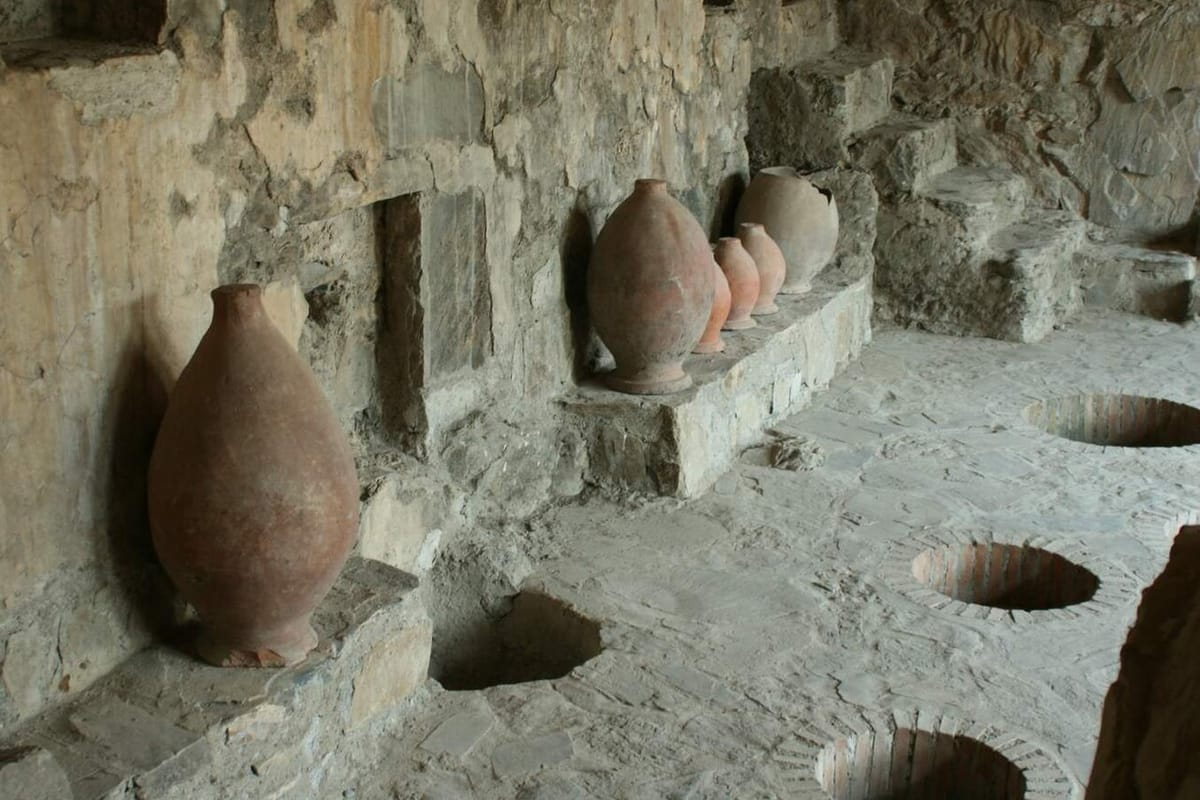
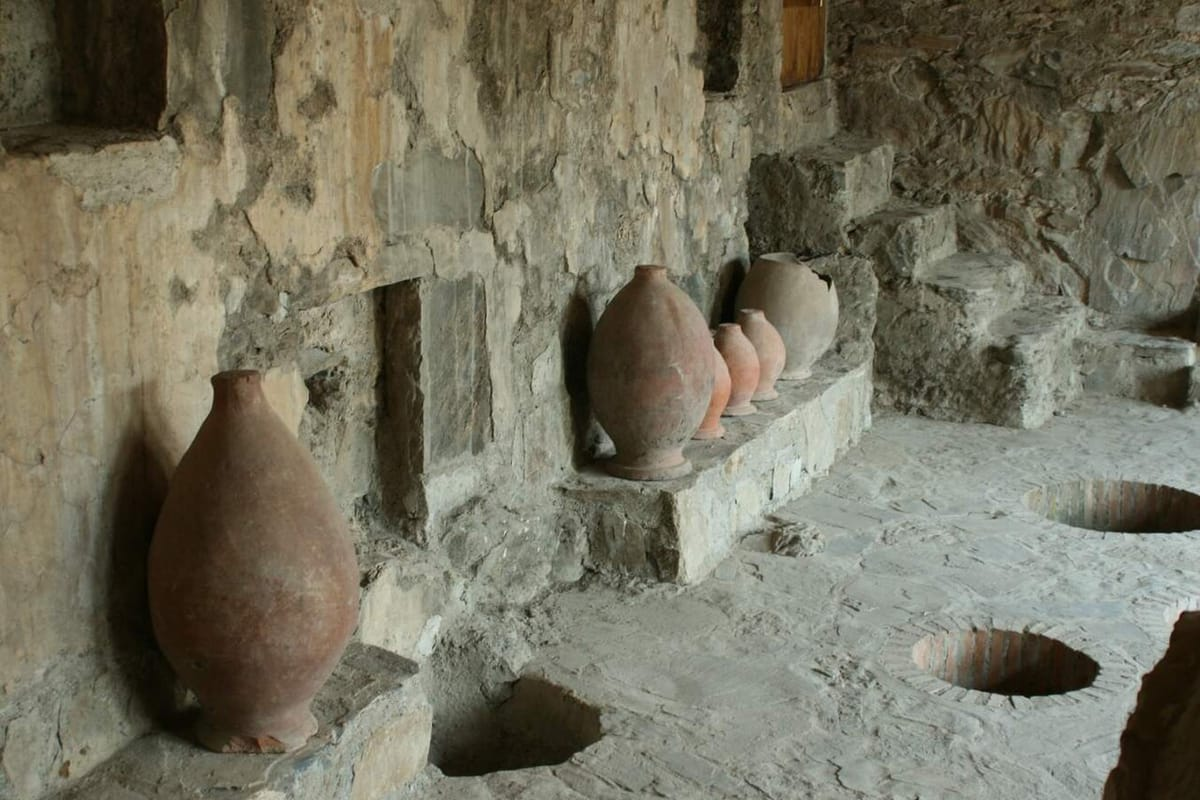
The sweep: thirty-one screenshots, seven flaws, one design system
Every page, desktop and mobile, rendered and reviewed. Most surfaces held
up; seven did not, and each is now fixed: the closing call-to-action was a
navy button painted onto a navy band — an invisible button is a missing
button — and is now the gold pill the header taught users to look for. The
Why-RouteGeorgia band reserved a column for a contact card that does not
render until SUPPORT_PHONE exists, leaving a hole; the grid now collapses.
The sign-in page was still wearing the previous brand — old mark, two-word
name; it now carries the R monogram lockup. The 404 grew a spine (logo,
eyebrow, centred layout). The booking page said '0 h 40 min' where the
shared formatter says '40 min'. The wine category card duplicated the tour
cover's exact crop on the same homepage; it now shows a different band of
the same cellar. And the map's raised labels could clip at the container
edge, which headroom fixes.

DESIGN-SYSTEM.md is the second deliverable: the navy-and-gold system as
law — the gold law and the navy law, the type scale and its tightened
bolds, the three permitted shadows, the radius binary, the photography and
honesty rules, per-component contracts, and a ten-point checklist for any
new page. When the document and the code disagree, one of them gets fixed
the same day. 69 tests, all fixes re-verified in the renderer.

diff --git a/src/app/login/page.tsx b/src/app/login/page.tsx
@@ -3,6 +3,7 @@ import { redirect } from "next/navigation";
 import { getSessionUser } from "@/lib/auth/session";
 import { Alert, Button, Card, Field, Input } from "@/components/ui";
 import { ContourField } from "@/components/contour-field";
+import { Logo } from "@/components/logo";
 
 export const dynamic = "force-dynamic";
 export const metadata = { title: "Sign in", robots: { index: false } };
@@ -18,15 +19,8 @@ export default async function LoginPage({
     <div className="relative flex min-h-dvh flex-col justify-center overflow-hidden bg-pine-800 px-4 py-12 text-pine-100">
       <ContourField className="text-pine-300" opacity={0.13} seed={5} />
       <div className="relative mx-auto w-full max-w-md">
-        <div className="mb-8 flex items-center gap-3">
-          <span aria-hidden className="grid size-10 place-items-center rounded-full bg-brand-600 text-white">
-            <svg viewBox="0 0 24 24" className="size-5" fill="none" stroke="currentColor" aria-hidden>
-              <ellipse cx="12" cy="14" rx="9" ry="5.5" strokeWidth="1.3" opacity=".45" />
-              <ellipse cx="12" cy="14" rx="5.5" ry="3.2" strokeWidth="1.3" opacity=".7" />
-              <path d="M4 18 C9 10, 15 16, 20 7" strokeWidth="2" strokeLinecap="round" />
-            </svg>
-          </span>
-          <span className="font-display text-xl text-white">Route Georgia</span>
+        <div className="mb-8">
+          <Logo dark />
         </div>
 
       <Card className="p-7">

diff --git a/src/app/[locale]/page.tsx b/src/app/[locale]/page.tsx
@@ -385,7 +385,7 @@ export default async function Home({
       )}
 
       {/* -------------------------------------------- why + contact ------- */}
-      <section className="grid gap-4 lg:grid-cols-[1fr_20rem]">
+      <section className={config.contact.phone ? "grid gap-4 lg:grid-cols-[1fr_20rem]" : "grid gap-4"}>
         <div className="rounded-2xl bg-pine-50 p-6 sm:p-10">
           <h2 className="font-display text-2xl text-ink-900 sm:text-3xl">{t("home.whyRG")}</h2>
           <dl className="mt-6 grid grid-cols-2 gap-x-8 gap-y-6 sm:grid-cols-4">
@@ -426,7 +426,7 @@ export default async function Home({
         <p className="mx-auto mt-4 max-w-xl leading-relaxed text-pine-100">{t("home.closingBody")}</p>
         <a
           href="#book"
-          className="mt-8 inline-flex min-h-12 items-center rounded-lg bg-brand-600 px-8 py-3 text-white shadow-[0_0_2px_0_rgba(0,0,0,.16)] transition-colors hover:bg-brand-700"
+          className="mt-8 inline-flex min-h-12 items-center rounded-xl bg-gold-400 px-8 py-3 font-bold tracking-[-0.01em] text-pine-900 shadow-[0_0_2px_0_rgba(0,0,0,.16)] transition-colors hover:bg-gold-300"
         >
           {t("home.closingCta")}
         </a>

diff --git a/src/app/[locale]/booking/[code]/page.tsx b/src/app/[locale]/booking/[code]/page.tsx
@@ -1,4 +1,5 @@
 import Link from "next/link";
+import { formatDuration } from "@/lib/format";
 import { notFound } from "next/navigation";
 import { sql } from "@db/client";
 import { isLocale, getTranslator, type Locale, type MessageKey } from "@/lib/i18n";
@@ -133,7 +134,7 @@ export default async function BookingPage({ params, searchParams }: Props) {
               <div><dt className="text-ink-500">{t("booking.departure")}</dt>
                 <dd className="font-medium">{startsAt.toLocaleString(locale, { dateStyle: "full", timeStyle: "short" })}</dd></div>
               <div><dt className="text-ink-500">{t("booking.drivingTime")}</dt>
-                <dd>{Math.floor(booking.drive_minutes / 60)} h {booking.drive_minutes % 60} min {t("booking.excludesStops")}</dd></div>
+                <dd>{formatDuration(booking.drive_minutes)} {t("booking.excludesStops")}</dd></div>
               <div><dt className="text-ink-500">{t("booking.pickup")}</dt><dd>{booking.pickup_address}</dd></div>
               <div><dt className="text-ink-500">{t("booking.dropoff")}</dt><dd>{booking.dropoff_address}</dd></div>
               {booking.flight_number && (

diff --git a/src/app/not-found.tsx b/src/app/not-found.tsx
@@ -1,13 +1,19 @@
 import Link from "next/link";
+import { Logo } from "@/components/logo";
 
 export default function NotFound() {
   return (
-    <div className="mx-auto max-w-lg px-4 py-20 text-center">
-      <h1 className="text-xl font-semibold text-ink-900">Page not found</h1>
-      <p className="mt-2 text-sm text-ink-600">
+    <div className="flex min-h-dvh flex-col items-center justify-center px-4 py-20 text-center">
+      <Logo />
+      <p className="eyebrow mt-10">404</p>
+      <h1 className="font-display mt-2 text-3xl text-ink-900">Page not found</h1>
+      <p className="mt-3 max-w-sm text-sm leading-relaxed text-ink-500">
         That page does not exist, or the driver profile is not published.
       </p>
-      <Link href="/" className="mt-6 inline-block rounded-lg bg-brand-600 px-4 py-2 text-sm text-white hover:bg-brand-700">
+      <Link
+        href="/"
+        className="mt-8 inline-flex min-h-11 items-center rounded-xl bg-brand-600 px-6 py-2.5 text-sm text-white shadow-[0_0_2px_0_rgba(0,0,0,.16)] transition-colors hover:bg-brand-700"
+      >
         Go home
       </Link>
     </div>

diff --git a/src/components/georgia-map.tsx b/src/components/georgia-map.tsx
@@ -116,7 +116,7 @@ export function GeorgiaMap({ locale, places, initialCat = "all" }: { locale: str
         ))}
       </div>
 
-      <div ref={boxRef} className="relative p-4 sm:p-6">
+      <div ref={boxRef} className="relative p-4 pt-8 sm:p-6 sm:pt-10">
         <svg viewBox={`0 0 ${W} ${H}`} className="w-full" role="img" aria-label="Map of Georgia">
           <path
             d={OUTLINE.map(([lon, lat], i) => `${i === 0 ? "M" : "L"}${px(lon).toFixed(1)},${py(lat).toFixed(1)}`).join(" ") + " Z"}

diff --git a/DESIGN-SYSTEM.md b/DESIGN-SYSTEM.md
@@ -1,0 +1,185 @@
+# RouteGeorgia Design System
+
+The single source of truth for how RouteGeorgia looks, speaks and behaves.
+The tokens live in `src/app/globals.css`; this document explains how to use
+them. When this document and the code disagree, fix one of them the same day.
+
+---
+
+## 1. Brand foundations
+
+**Idea.** A Georgian travel company with the authority of navy and the warmth
+of gold. The photography carries the emotion; the interface carries the
+trust. Nothing decorative competes with a photo of Ushguli.
+
+**Logo.** The R monogram: a heavy letterform R whose left stem flows into a
+road sweeping down-left, with a gold dashed centre line. Implemented in code
+in `src/components/logo.tsx` (`RMark`, `Logo`). The wordmark is two-tone:
+ROUTE in navy (white on dark), GEORGIA letterspaced in gold.
+- On light surfaces: navy mark + navy/gold wordmark (`<Logo />`).
+- On dark surfaces: white mark + white/gold wordmark (`<Logo dark />`).
+- App icon / favicon: white mark on a navy rounded tile (`src/app/icon.png`).
+- Never recolour the gold dashes; never set the wordmark in another face.
+- The designer's final vector replaces `MarkPaths` in one file when it ships.
+
+---
+
+## 2. Colour
+
+Four scales, defined as Tailwind v4 `@theme` tokens. Use tokens, never raw
+hex, in components.
+
+| Scale | Anchor | Role |
+|---|---|---|
+| `brand-*` | `brand-600 #0b1d33` (Deep Navy) | Primary actions, active states, emphasis text |
+| `pine-*` | `pine-800 #0b1d33`, `pine-900 #071527` | Dark surfaces: header, footer, hero overlay, dark bands |
+| `gold-*` | `gold-400/500 #d4af37` | The accent: icons, eyebrows, hero's second line, gold CTAs on dark |
+| `ink-*` | `ink-900 #1e242c` text · `ink-500 #576579` muted · `ink-200/300` hairlines | Neutrals |
+
+Semantic: `--color-danger #b3261e` with `--color-danger-bg`; success/warning/
+info badge tints via `Badge` tones only.
+
+**The gold law.** Gold is pigment, not paint:
+- ON DARK: gold works at `gold-400` — icons, the Book-a-ride header button,
+  the hero's second headline line, active carousel dot.
+- ON LIGHT: gold text must use `gold-600 #a8871f` or darker (contrast);
+  `gold-400` on white is reserved for icon strokes paired with a label.
+- Never use gold for body text, borders of inputs, or backgrounds of large
+  areas.
+
+**The navy law.** Navy filled buttons are THE primary action on light
+surfaces (See prices, Book this driver, form submits). On navy surfaces the
+primary action is gold-filled; secondary is white-outline.
+
+**Status colours** exist only in the consoles and booking states. Marketing
+surfaces stay navy/gold/neutral — a red badge on the homepage is a bug.
+
+---
+
+## 3. Typography
+
+**Face.** Montserrat (self-hosted via `@fontsource/montserrat`; weights
+400/500/600/700/800). Georgian text falls back to Noto Sans Georgian —
+never force Montserrat onto Georgian glyphs.
+
+| Role | Classes | Notes |
+|---|---|---|
+| Display | `.font-display` (700, -0.015em, lh 1.12) + size `text-3xl…7xl` | Page titles, section headings, prices that matter |
+| Body | default 16px / 1.5 | |
+| Bold labels | `font-bold tracking-[-0.02em]` | The tightened bold is a brand signature |
+| Eyebrow | `.eyebrow` (11px caps, 0.14em, gold-600) | One per section, above the heading |
+| Micro/meta | `text-xs text-ink-500` | Timestamps, hints, captions |
+| Small-caps field labels | `text-[10px] font-semibold uppercase tracking-[0.08em] text-ink-400` | Booking bar cells only |
+
+Hero headline is two lines: line one white, line two `text-gold-400`.
+
+---
+
+## 4. Space, shape, elevation
+
+- **Spacing rhythm:** sections `space-y-20 sm:space-y-28`; card padding
+  `p-6` (dense `p-4`, hero cards `sm:p-8/10`); element gap 3–4 (12–16px).
+- **Container:** `max-w-[1400px] 2xl:max-w-[1680px]`, gutters
+  `px-4 sm:px-6 lg:px-10`.
+- **Radius:** marketing surfaces `rounded-2xl` (16px); controls
+  (buttons/inputs/pills) `rounded-xl` (12px); console tables may use
+  `rounded-lg`. No other values.
+- **Elevation:** flat by default with `border-ink-200` hairlines. Three
+  shadows only:
+  - resting card: `shadow-[0_1px_3px_rgba(11,29,51,.06)]`
+  - hover/soft: `var(--shadow-soft)` — `0 10px 30px -12px rgba(11,29,51,.25)`
+  - floating (booking widget): `var(--shadow-float)`
+- **Motion:** 300–500ms ease transitions; hover lift `-translate-y-1` +
+  soft shadow on linked cards; image zoom `group-hover:scale-105` inside
+  `overflow-hidden`. Everything respects `prefers-reduced-motion` (global
+  rule kills animation).
+
+---
+
+## 5. Iconography
+
+Stroke icons on a 24-box, `stroke-width` 1.6–1.7, round caps/joins, drawn
+inline as paths. Category set lives in `src/lib/map-icons.ts` (mountains,
+sea, winter, wine, culture, nature) — reuse it; never introduce a second
+icon style or emoji. Icon colour: gold on dark, `ink-900` or gold-600 on
+light. Trust chips: `size-12 rounded-full border border-gold-400/70` ring
+with a gold icon.
+
+---
+
+## 6. Components (source of truth in code)
+
+| Component | File | Rules |
+|---|---|---|
+| Button | `components/ui.tsx` | primary navy / secondary white-outline / ghost / danger. Gold variant is hand-rolled for dark surfaces only |
+| Card | `ui.tsx` | white, `rounded-2xl`, hairline + resting shadow |
+| Field/Input/Select/Textarea | `ui.tsx` | label-above, `rounded-xl`, focus ring ink; errors in danger red with `role=alert` |
+| Badge/Alert | `ui.tsx` | semantic tones; consoles and statuses only |
+| Booking bar | `components/search-form.tsx` (wide) | one segmented white bar: gold icon + small-caps label + bold value per cell, hairline dividers, navy pill CTA with `→`. Native GET form — never break that |
+| Booking tabs | `components/search-tabs.tsx` | pill row; active navy-filled, inactive `text-ink-500` |
+| Hero carousel | `components/hero-carousel.tsx` | inline-script driven (works without React), gold active dot, decorative `alt=""` |
+| Category cards | homepage | photo, navy gradient overlay, gold ring icon, title + destination names, hover lift+zoom |
+| Explore map | `components/georgia-map.tsx` | schematic ink outline; category+season filter chips; pins = category icons; popover card with photo, one sentence, weather, two actions |
+| Popovers/cards | | `rounded-2xl`, soft shadow, close affordance, Escape-closable |
+| Logo | `components/logo.tsx` | see §1 |
+
+**Forms philosophy:** every critical form is a native form first (real
+`action`, named fields); JavaScript adds validation and polish. This is
+load-bearing reliability, not nostalgia.
+
+---
+
+## 7. Photography
+
+- Real places only, on the surface that claims them: a Kazbegi card shows
+  Kazbegi. Generic mood imagery is allowed only on generic surfaces (hero,
+  category cards).
+- Sources: RouteGeorgia's own photos, or openly licensed (CC BY / CC BY-SA /
+  CC0 / public domain) with the author recorded in
+  `src/lib/photo-credits.ts` and shown at `/credits`. Nothing else. Ever.
+- Drop-in system: `public/photos/` — `hero.jpg…hero-5.jpg`,
+  `categories/<cat>.jpg`, `destinations/<slug>.jpg`, `tours/<slug>.jpg`,
+  `routes/<slug>.jpg`, `travellers/<name-country-place>.jpg` (consent
+  required). Missing photo → deterministic illustration, never a grey box.
+- Crops are made server-side to the slot's aspect; hero ≥2400px when the
+  source allows. Never upscale beyond source pixels.
+
+---
+
+## 8. Voice and honesty rules
+
+- Three languages always: en/ka/ru keys move together (parity test enforces).
+- Numbers shown are real database numbers; zeros hide rather than lie.
+  Invented social proof ("10,000+ travellers") does not ship.
+- No driver-economics talk (commission, driver terms) on customer surfaces —
+  that lives in the driver console.
+- Claims match code: "free cancellation 24h" is written because the policy
+  table says 24.
+- Prices always "for the whole vehicle", charged in GEL; other currencies
+  labelled as guidance.
+
+---
+
+## 9. Accessibility checklist
+
+- Every interactive element keyboard-reachable; focus ring 2px navy.
+- Decorative images `alt=""`+`aria-hidden`; informative images described.
+- Tap targets ≥44px on booking-path controls.
+- Text on photos always sits on a `pine-900` gradient overlay.
+- Gold on white only at `gold-600+` for text-sized elements.
+- Errors: text + colour, never colour alone; `role="alert"`.
+
+---
+
+## 10. Adding a page — the 10-point check
+
+1. Eyebrow (gold-600 caps) → display heading → lead in `ink-500`.
+2. Contained width, standard gutters, `space-y` rhythm.
+3. Cards `rounded-2xl` hairline; controls `rounded-xl`.
+4. One navy primary action per view; gold only per the gold law.
+5. Photos licensed + credited; illustration fallback wired.
+6. All three languages; parity test green.
+7. Works without JavaScript if it's on the booking path.
+8. Mobile: single column collapses, no horizontal scroll.
+9. Focus states + alt text audited.
+10. `deploy.bat` (tests) passes before ship.
